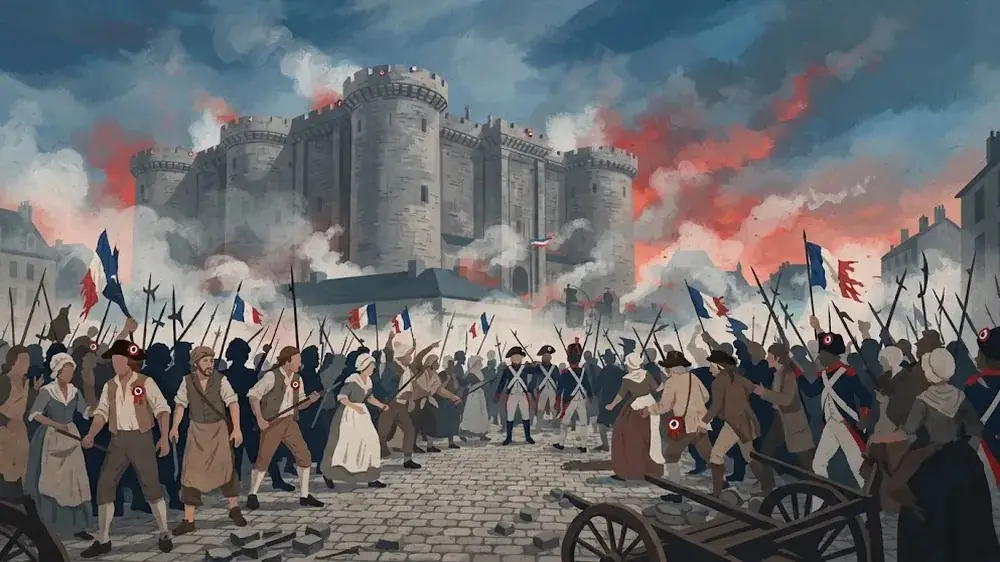
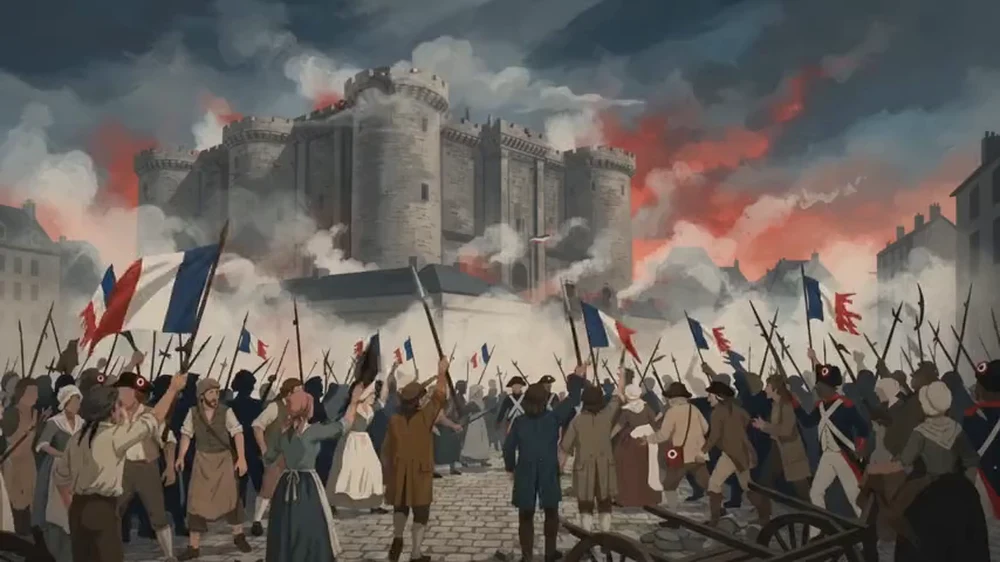
Animación Gemini de des-rev1789 (lámina igualada al vídeo)
Claude-Session: https://claude.ai/code/session_01NHhBmY7wM8XKkpddSrbtEc

diff --git a/foro/animaciones-pendientes.md b/foro/animaciones-pendientes.md
@@ -24,7 +24,7 @@ Veo no supo animarlas sin cambiar el dibujo. Todas las demás láminas ya tienen
 4. ✓ des-malaspina · La expedición Malaspina (1789-1794)
 5. ✓ des-mesiniense · Cuando el Mediterráneo era un desierto de sal
 6. des-polvo-estrellas · Polvo de estrellas: de dónde viene cada átomo de tu cuerpo — REPETIR (la actual tiene un cangrejo)
-7. des-rev1789 · 1789: el año que cambió Francia
+7. ✓ des-rev1789 · 1789: el año que cambió Francia (28-oct, 2.º intento: el 1.º redibujó y puso la tricolor sobre la Bastilla)
 8. des-scrovegni · La Capilla de los Scrovegni
 9. des-terracota · Los guerreros de terracota
 10. med3-11 · El Cid, entre la historia y el cantar
